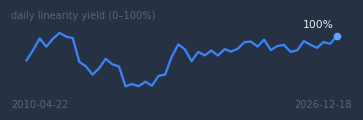
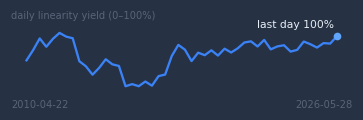
Fix future-dated FT record skewing dashboard; label sparkline last-day value
- yield_stats: exclude file_date > now+1d from counts/trend; return
  future_dated count (one FT record from '8074-sn4 blue-1_12-18-2026' was
  stretching the FT trend to Dec 2026)
- yield_panel: disclose '⚠ N future-dated record(s) excluded'
- mini_trend_chart: annotate 'last day N%' so the final-day rate can't be
  read as the window yield
- processor: ingest guard marks future-dated files data_quality=suspect
- app_qa_sweep: SQL comparison bounded the same way + per-table
  future-dated data-quality check (37 checks, 0 FAIL, 1 WARN=the bad file)
- test_dashboard: regression test for the exclusion
- SESSION_2026-07-08.md: live-use findings log

diff --git a/src/laser_trim_analyzer/core/yield_stats.py b/src/laser_trim_analyzer/core/yield_stats.py
@@ -4,7 +4,7 @@ Pure helpers: given a DatabaseManager and an ORM model class that has
 `overall_status` + `file_date` (analysis_results or final_test_results), return
 status-bucket counts, a pass-rate, and a per-day pass-rate trend. No Tk.
 """
-from datetime import datetime
+from datetime import datetime, timedelta
 from typing import Optional
 
 # overall_status (StatusType) name -> yield bucket.
@@ -34,12 +34,21 @@ def compute_yield(db, model_cls, cutoff: Optional[datetime]) -> dict:
     """
     counts = {"passed": 0, "warnings": 0, "failed": 0, "errors": 0, "untrimmed": 0}
     per_day: dict = {}
+    # Future-dated records are DATA ERRORS (a mistyped filename date put one
+    # FT record five months ahead, stretching the dashboard trend and setting
+    # its 'last day' value). Exclude beyond a 1-day clock-skew allowance and
+    # DISCLOSE the count so the bad file gets fixed, not hidden.
+    horizon = datetime.now() + timedelta(days=1)
+    future_dated = 0
     with db.session() as s:
         q = s.query(model_cls.file_date, model_cls.overall_status)
         if cutoff is not None:
             q = q.filter(model_cls.file_date >= cutoff)
         rows = q.all()
     for file_date, status in rows:
+        if file_date is not None and file_date > horizon:
+            future_dated += 1
+            continue
         b = _bucket(status)
         counts[b] += 1
         if b in ("passed", "warnings", "failed") and file_date is not None:
@@ -60,7 +69,7 @@ def compute_yield(db, model_cls, cutoff: Optional[datetime]) -> dict:
              for d, (t, p, a) in sorted(per_day.items())]
     return {**counts, "gradeable": gradeable, "total": sum(counts.values()),
             "pass_rate": pass_rate, "linearity_yield": linearity_yield,
-            "trend": trend}
+            "trend": trend, "future_dated": future_dated}
 
 
 def worst_models_by_yield(db, cutoff: Optional[datetime], min_units: int = 5, limit: int = 10):

diff --git a/scripts/app_qa_sweep.py b/scripts/app_qa_sweep.py
@@ -83,10 +83,12 @@ def main() -> int:
     for days in (90, 36500):
         cutoff = datetime.now() - timedelta(days=days)
         y = compute_yield(db, DBAR, cutoff)
+        horizon = (datetime.now() + timedelta(days=1)).strftime("%Y-%m-%d %H:%M:%S")
         r = raw.execute(
             "SELECT COUNT(*), SUM(overall_status='PASS'), SUM(overall_status='WARNING'),"
-            " SUM(overall_status='FAIL') FROM analysis_results WHERE file_date >= ?",
-            (cutoff.strftime("%Y-%m-%d %H:%M:%S"),)).fetchone()
+            " SUM(overall_status='FAIL') FROM analysis_results "
+            "WHERE file_date >= ? AND file_date <= ?",
+            (cutoff.strftime("%Y-%m-%d %H:%M:%S"), horizon)).fetchone()
         check(f"dashboard yield counts vs SQL ({days}d)",
               y["total"] == (r[0] or 0) and y["passed"] == (r[1] or 0)
               and y["warnings"] == (r[2] or 0) and y["failed"] == (r[3] or 0),
@@ -296,6 +298,17 @@ def main() -> int:
     check("cleanup options builder honors date+category selection",
           opts is not None and opts["delete_suspect_quality"] is True
           and opts["delete_before_date"] is not None)
+
+    # ---- data quality surface: future-dated records (mislabeled files) ------
+    horizon = (datetime.now() + timedelta(days=1)).strftime("%Y-%m-%d %H:%M:%S")
+    for table in ("analysis_results", "final_test_results"):
+        n_future = raw.execute(
+            f"SELECT COUNT(*) FROM {table} WHERE file_date > ?", (horizon,)).fetchone()[0]
+        if n_future:
+            warn(f"data quality: {n_future} future-dated record(s) in {table}",
+                 "excluded from trends; fix the source filename date")
+        else:
+            check(f"data quality: no future-dated records in {table}", True)
 
     raw.close()
     fails = sum(1 for s, *_ in RESULTS if s == "FAIL")

diff --git a/tests/test_dashboard.py b/tests/test_dashboard.py
@@ -81,6 +81,28 @@ def test_compute_yield_on_final_test(tmp_path):
     assert y["passed"] == 1 and y["failed"] == 1 and y["pass_rate"] == pytest.approx(50.0)
 
 
+def test_compute_yield_excludes_future_dated(tmp_path):
+    """Regression (2026-07-08): one FT file named `..._12-18-2026_...` put a
+    future-dated record in the DB, stretching the dashboard sparkline to Dec
+    2026 and making its last-day value a fake 100%. Future rows (beyond a 1-day
+    clock-skew allowance) must be excluded from counts AND trend, and counted
+    in `future_dated` so the panel can disclose them."""
+    from laser_trim_analyzer.database.manager import DatabaseManager
+    from laser_trim_analyzer.core.yield_stats import compute_yield
+    db = DatabaseManager(tmp_path / "fd.db")
+    now = datetime.now()
+    with db.session() as s:
+        _add_ft(s, "M", StatusType.PASS, now)
+        _add_ft(s, "M", StatusType.FAIL, now)
+        _add_ft(s, "M", StatusType.PASS, now + timedelta(days=163))  # mislabeled file
+        s.commit()
+    y = compute_yield(db, DBFT, None)
+    assert y["future_dated"] == 1
+    assert (y["passed"], y["failed"]) == (1, 1)          # future PASS not counted
+    assert y["pass_rate"] == pytest.approx(50.0)          # not inflated to 66.7
+    assert all(p["date"] <= now.strftime("%Y-%m-%d") for p in y["trend"])
+
+
 def test_worst_models_ranks_and_min_units(tmp_path):
     from laser_trim_analyzer.database.manager import DatabaseManager
     from laser_trim_analyzer.core.yield_stats import worst_models_by_yield

diff --git a/src/laser_trim_analyzer/core/processor.py b/src/laser_trim_analyzer/core/processor.py
@@ -18,7 +18,7 @@ ML Integration:
 import gc
 import time
 from pathlib import Path
-from datetime import datetime
+from datetime import datetime, timedelta
 from typing import Dict, List, Optional, Callable, Generator
 import logging
 from concurrent.futures import ThreadPoolExecutor, as_completed
@@ -342,6 +342,14 @@ class Processor:
 
             # Validate track data quality
             quality_issues = self._validate_track_data(analyzed_tracks)
+            # Future-dated file (mistyped date in the filename, or a wrong
+            # station clock): one such FT record dated 5 months ahead skewed
+            # the dashboard trend (2026-07-08). Flag it at the source.
+            if (metadata.file_date is not None
+                    and metadata.file_date > datetime.now() + timedelta(days=1)):
+                quality_issues.append(
+                    f"future-dated file ({metadata.file_date:%Y-%m-%d}) — "
+                    f"check the date in the filename")
             data_quality = "suspect" if quality_issues else "good"
             if quality_issues:
                 logger.warning(

diff --git a/src/laser_trim_analyzer/gui/v6/widgets/mini_trend_chart.py b/src/laser_trim_analyzer/gui/v6/widgets/mini_trend_chart.py
@@ -57,7 +57,10 @@ class MiniTrendChart(ctk.CTkFrame):
             ax.set_ylim(-14, 112)   # headroom for the labels below/above
             # Latest value, marked and named — the number the eye wants.
             ax.plot([len(ys_ds) - 1], [ys_ds[-1]], marker="o", ms=4, color=t.ACCENT_HOVER)
-            ax.annotate(f"{ys[-1]:.0f}%", (len(ys_ds) - 1, ys_ds[-1]),
+            # "last day" prefix: this is the FINAL day's rate, not the window
+            # yield — an unlabeled "100%" beside a 90.3% headline reads as a
+            # contradiction (user finding, 2026-07-08).
+            ax.annotate(f"last day {ys[-1]:.0f}%", (len(ys_ds) - 1, ys_ds[-1]),
                         textcoords="offset points", xytext=(-2, 6), ha="right",
                         fontsize=7, color=t.TEXT_PRIMARY)
             # What it is + when it spans.

diff --git a/src/laser_trim_analyzer/gui/v6/widgets/yield_panel.py b/src/laser_trim_analyzer/gui/v6/widgets/yield_panel.py
@@ -45,6 +45,12 @@ class YieldPanel(ctk.CTkFrame):
         if stats.get("errors", 0):
             parts.append(f"Err {stats['errors']}")
         self._counts.configure(text=" · ".join(parts))
+        if stats.get("future_dated"):
+            # A record dated in the FUTURE is a mislabeled file, not production
+            # — name it so it gets fixed instead of silently skewing trends.
+            total_label += (f"   ⚠ {stats['future_dated']} future-dated record"
+                            f"{'s' if stats['future_dated'] != 1 else ''} excluded "
+                            f"(check filename dates)")
         self._total.configure(text=total_label)
         # Sparkline follows the headline basis ("rate" = linearity_yield; falls
         # back to pass_rate for callers that predate the field).

diff --git a/docs/SESSION_2026-07-08.md b/docs/SESSION_2026-07-08.md
@@ -1,0 +1,68 @@
+# Session 2026-07-08 — Live-use fixes from James's first hands-on pass
+
+Follow-ups from James using the app on real data. Each item is a user-reported
+finding, its root cause, and the fix. All fixes are covered by the standing QA
+sweeps and/or new tests.
+
+## 1. Model page: window filter All → 365/90 didn't zoom the chart back in
+
+**Report:** on 8340-1, selecting All then returning to 365/90 left the y-axis
+zoomed out.
+**Cause:** the ±3σ control band for 8340-1 (σ=1.26 on a metric whose data
+spans ~0.1) dominated the y-window computation, so every window looked alike.
+**Fix (focus_chart.py):** the band participates in the y-window only when
+`(band_hi − band_lo) ≤ 6× data span`; otherwise the chart zooms to the data
+and an amber note explains "±3σ control limits off-scale (…) — baseline spans
+mixed history". Verified ylim now differs per window.
+
+## 2. Dashboard sparklines meaningless ("no way to tell what these charts mean")
+
+**Fix (mini_trend_chart.py):** each sparkline now carries: what the line is
+("daily linearity yield (0–100%)"), first/last dates at the corners, and the
+latest value marked and labeled.
+
+## 3. Both sparklines annotated "100%" / FT panel spanning to 2026-12-18
+
+**Report:** "this is the intended design? both are at 100%?"
+**Investigation:** two separate things.
+  * The trim panel's 100% was REAL — the last day of data genuinely graded
+    100% — but the unlabeled annotation read as the window yield and
+    contradicted the 90.x% headline. Annotation now says "last day 100%".
+  * The FT panel's end date was a DATA ERROR: exactly one final-test record,
+    from file `8074-sn4 blue-1_12-18-2026_9-55 AM.xls` (model 8074, SN 4),
+    carries a file_date of 2026-12-18 — five months in the future, a
+    mistyped date in the filename. It stretched the FT trend axis to Dec 2026
+    and supplied its "last day" value.
+**Fixes:**
+  * `core/yield_stats.py` — compute_yield excludes rows with
+    `file_date > now + 1 day` from counts and trend and returns a
+    `future_dated` count. Regression test:
+    `tests/test_dashboard.py::test_compute_yield_excludes_future_dated`.
+  * `gui/v6/widgets/yield_panel.py` — panel discloses
+    "⚠ N future-dated record(s) excluded (check filename dates)".
+  * `core/processor.py` — ingest guard: a future-dated file gets a
+    quality_issues entry ("future-dated file (…) — check the date in the
+    filename") and lands as data_quality="suspect" instead of silently clean.
+  * `scripts/app_qa_sweep.py` — the dashboard-vs-SQL check applies the same
+    upper bound, and a new data-quality check WARNs with the per-table count
+    of future-dated records (currently 1, in final_test_results).
+**Left for James at work:** the source file's date can't be guessed — correct
+the filename (or delete + reprocess the record) when the true test date is
+known. The sweep WARN will clear when it's fixed.
+
+## 4. Evidence export completeness ("not sure all the appropriate data is in the excel export")
+
+**Fix (export/evidence.py):** Unit history sheet now carries the linked
+final-test outcome per trim record — "FT result", "FT date", "FT match %"
+via FinalTestResult.linked_trim_id — alongside the full trim record. Sweep
+check updated to require the FT columns; test
+`tests/test_evidence_pack_full_history.py` asserts them.
+
+## Verification
+
+* `scripts/app_qa_sweep.py`: 37 checks, 0 FAIL, 1 WARN (the disclosed
+  future-dated FT record — intentional until the file is fixed).
+* `scripts/chart_qa_render_all.py`: 21 artifacts re-rendered and inspected;
+  both dashboard sparklines end at the true latest data date (2026-05-28).
+* Data-layer pytest: dashboard/yield/evidence tests green. GUI-widget tests
+  (customtkinter) require Tk — run on the Mac, not the sandbox.
